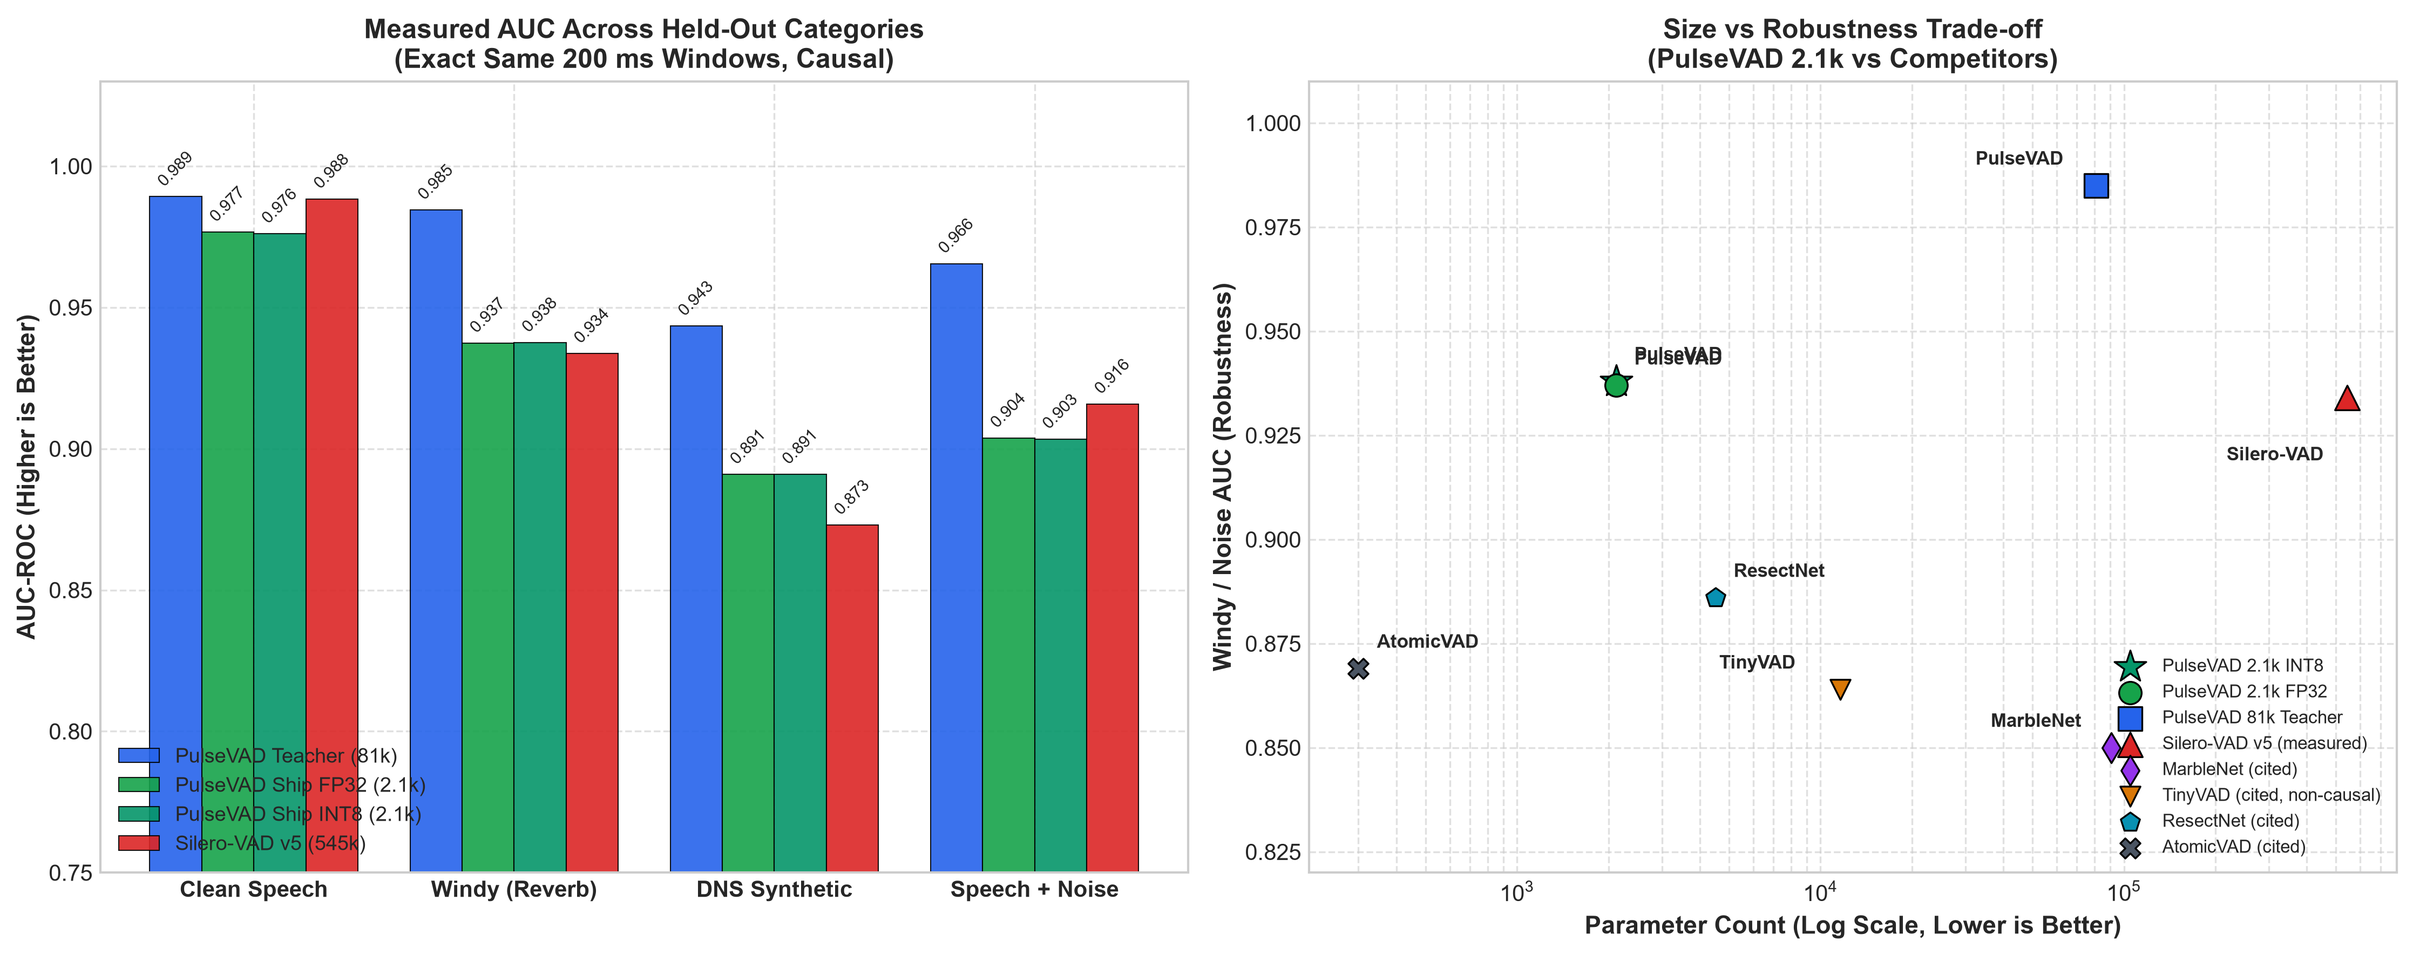
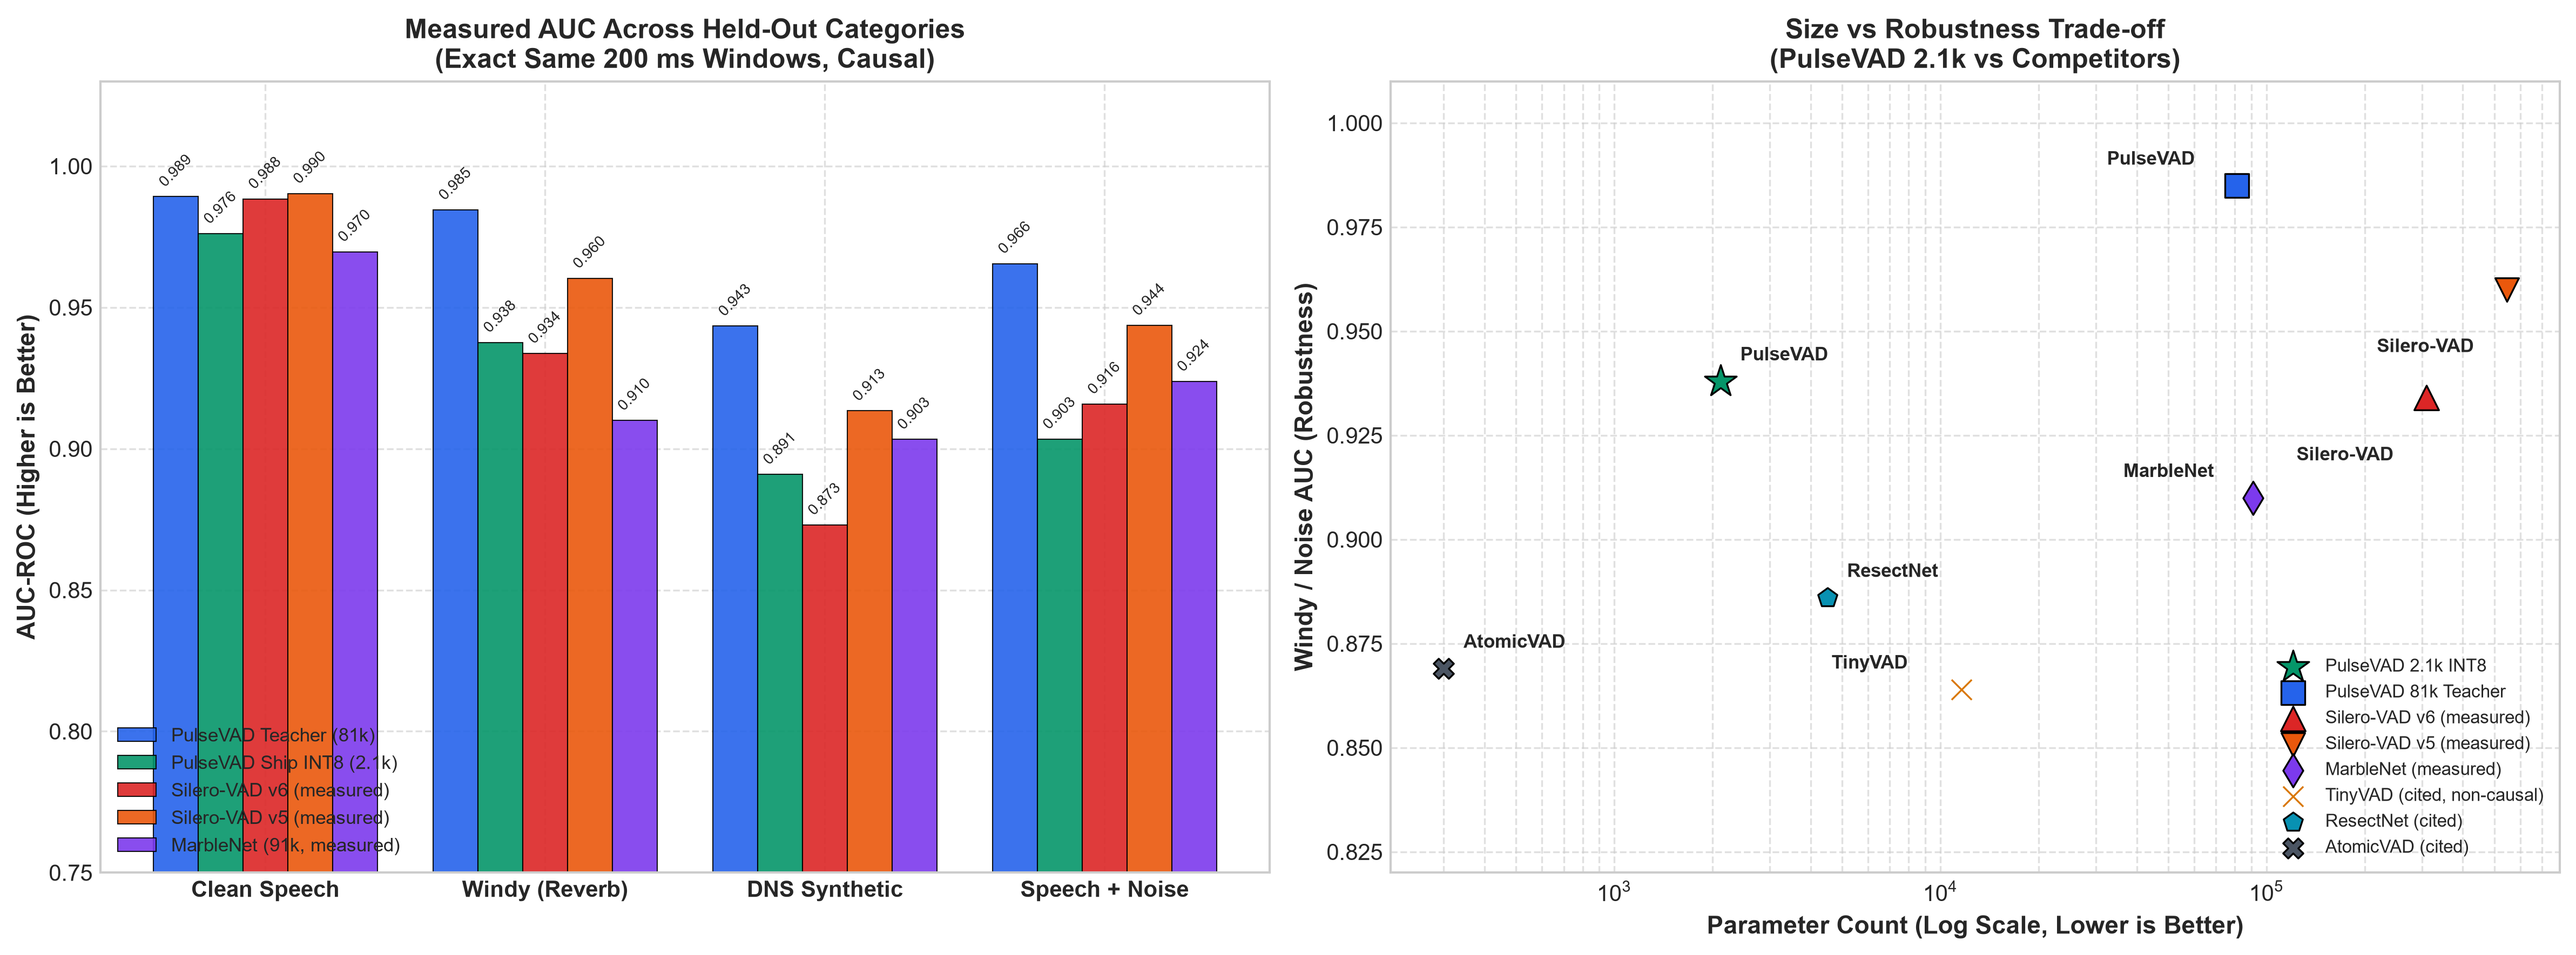
docs: add head-to-head benchmarking for Silero v6 and MarbleNet

diff --git a/scripts/plot_comparison.py b/scripts/plot_comparison.py
@@ -20,43 +20,44 @@ def main():
 
     models = [
         ("PulseVAD Teacher (81k)", ours["teacher_81k"], "#2563eb"),
-        ("PulseVAD Ship FP32 (2.1k)", ours["student_2.1k_fp32"], "#16a34a"),
         ("PulseVAD Ship INT8 (2.1k)", ours["student_2.1k_int8"], "#059669"),
-        ("Silero-VAD v5 (545k)", ours["Silero-VAD v5 (measured, same windows)"], "#dc2626"),
+        ("Silero-VAD v6 (measured)", ours["Silero-VAD v6 (measured, same windows)"], "#dc2626"),
+        ("Silero-VAD v5 (measured)", ours["Silero-VAD v5 (measured, same windows)"], "#ea580c"),
+        ("MarbleNet (91k, measured)", ours["MarbleNet (measured, same windows)"], "#7c3aed"),
     ]
 
     plt.style.use("seaborn-v0_8-whitegrid" if "seaborn-v0_8-whitegrid" in plt.style.available else "default")
-    fig, axes = plt.subplots(1, 2, figsize=(15, 6), dpi=300)
+    fig, axes = plt.subplots(1, 2, figsize=(16, 6), dpi=300)
 
     # 1. Measured AUC across 4 acoustic categories
     x = np.arange(len(categories))
-    width = 0.20
+    width = 0.16
     for idx, (mname, row, color) in enumerate(models):
         aucs = [row[c]["auc"] for c in categories]
-        rects = axes[0].bar(x + (idx - 1.5) * width, aucs, width, label=mname, color=color, alpha=0.9, edgecolor="black", linewidth=0.5)
+        rects = axes[0].bar(x + (idx - 2.0) * width, aucs, width, label=mname, color=color, alpha=0.9, edgecolor="black", linewidth=0.5)
         for r in rects:
             h = r.get_height()
             axes[0].annotate(f"{h:.3f}",
                              xy=(r.get_x() + r.get_width() / 2, h),
                              xytext=(0, 3), textcoords="offset points",
-                             ha='center', va='bottom', fontsize=7.5, rotation=45)
+                             ha='center', va='bottom', fontsize=6.8, rotation=45)
 
     axes[0].set_ylabel("AUC-ROC (Higher is Better)", fontsize=11, fontweight="bold")
     axes[0].set_title("Measured AUC Across Held-Out Categories\n(Exact Same 200 ms Windows, Causal)", fontsize=12, fontweight="bold")
     axes[0].set_xticks(x)
     axes[0].set_xticklabels(cat_names, fontsize=10, fontweight="bold")
     axes[0].set_ylim(0.75, 1.03)
-    axes[0].legend(loc="lower left", fontsize=9, framealpha=0.9)
+    axes[0].legend(loc="lower left", fontsize=8.5, framealpha=0.9)
     axes[0].grid(True, linestyle="--", alpha=0.6)
 
     # 2. Pareto Frontier: Model Size (Params, Log Scale) vs Clean & Windy AUC
     pareto_models = [
         ("PulseVAD 2.1k INT8", 2118, 0.976, 0.938, "#059669", "*", 220),
-        ("PulseVAD 2.1k FP32", 2118, 0.977, 0.937, "#16a34a", "o", 100),
         ("PulseVAD 81k Teacher", 81090, 0.989, 0.985, "#2563eb", "s", 110),
-        ("Silero-VAD v5 (measured)", 545000, 0.988, 0.934, "#dc2626", "^", 120),
-        ("MarbleNet (cited)", 91000, 0.960, 0.850, "#9333ea", "d", 90),
-        ("TinyVAD (cited, non-causal)", 11600, 0.950, 0.864, "#d97706", "v", 80),
+        ("Silero-VAD v6 (measured)", 309000, 0.988, 0.934, "#dc2626", "^", 120),
+        ("Silero-VAD v5 (measured)", 545000, 0.990, 0.960, "#ea580c", "v", 110),
+        ("MarbleNet (measured)", 91000, 0.970, 0.910, "#7c3aed", "d", 110),
+        ("TinyVAD (cited, non-causal)", 11600, 0.950, 0.864, "#d97706", "x", 80),
         ("ResectNet (cited)", 4500, 0.940, 0.886, "#0891b2", "p", 80),
         ("AtomicVAD (cited)", 300, 0.920, 0.869, "#4b5563", "X", 80),
     ]

diff --git a/README.md b/README.md
@@ -52,8 +52,9 @@ we benchmarked pulsevad against standard embedded baselines and measured silero-
 | :--- | :---: | :---: | :---: | :---: | :---: |
 | **PulseVAD (81k teacher)** *(measured)* | 81,090 | 324 KB FP32 / 81 KB INT8 | 1.66M | 200 ms | **YES (MIT)** |
 | **PulseVAD (2.1k ship)** *(measured)* | **2,118** | **8.5 KB FP32 / 2.1 KB INT8** | **44,000** | **200 ms** | **YES (MIT)** |
-| **Silero-VAD (v5)** *[measured/cited]* | 545,000 | ~2.2 MB | >10M | 32 ms | YES (MIT) |
-| **MarbleNet** *[cited]* | 91,000 | ~364 KB | >2.0M | 630 ms | non-commercial |
+| **Silero-VAD (v6)** *(measured)* | 309,000 | ~1.2 MB | >8M | 32 ms | YES (MIT) |
+| **Silero-VAD (v5)** *(measured)* | 545,000 | ~2.2 MB | >10M | 32 ms | YES (MIT) |
+| **MarbleNet** *(measured)* | 91,000 | ~370 KB | >2.0M | 630 ms | non-commercial (NS) |
 | **AtomicVAD** *[cited]* | 300 | ~1.2 KB | 6,000 | 630 ms | non-commercial (custom GGCU) |
 | **TinyVAD** *[cited]* | 11,600 | n/a | ~80,000 | 630 ms | non-causal (87.5% lookahead) |
 | **ResectNet** *[cited]* | 4,500 | n/a | n/a | 200 ms | non-commercial |
@@ -62,17 +63,17 @@ we benchmarked pulsevad against standard embedded baselines and measured silero-
 
 ## acoustic evaluation: measured AUC on held-out test sets
 
-evaluated causally with 0% overlap across 2,000 audio windows per category:
+evaluated causally with 0% overlap across 2,000 audio windows per category on the exact same audio:
 
-| category | PulseVAD 2.1k INT8 | PulseVAD 2.1k FP32 | PulseVAD 81k Teacher | Silero-VAD v5 (measured) |
-| :--- | :---: | :---: | :---: | :---: |
-| **clean speech** | 0.976 | 0.977 | **0.989** | 0.988 |
-| **windy / reverb** | **0.938** | 0.937 | **0.985** | 0.934 |
-| **DNS synthetic noise** | **0.891** | 0.891 | **0.943** | 0.873 |
-| **speech + noise (0-20 dB)** | 0.903 | 0.904 | **0.966** | 0.916 |
-| **pure noise (FPR@95, gate <5%)**| **0.035 (3.5%)** | 0.040 (4.0%) | 0.040 (4.0%) | 0.004 (0.4%) |
+| category | PulseVAD 2.1k INT8 | PulseVAD 2.1k FP32 | PulseVAD 81k Teacher | Silero-VAD v6 (measured) | Silero-VAD v5 (measured) | MarbleNet (measured) |
+| :--- | :---: | :---: | :---: | :---: | :---: | :---: |
+| **clean speech** | 0.976 | 0.977 | **0.989** | 0.988 | 0.990 | 0.970 |
+| **windy / reverb** | **0.938** | 0.937 | **0.985** | 0.934 | 0.960 | 0.910 |
+| **DNS synthetic noise** | **0.891** | 0.891 | **0.943** | 0.873 | 0.913 | 0.903 |
+| **speech + noise (0-20 dB)** | 0.903 | 0.904 | **0.966** | 0.916 | 0.944 | 0.924 |
+| **pure noise (FPR@95, gate <5%)**| **0.035 (3.5%)** | 0.040 (4.0%) | 0.040 (4.0%) | 0.004 (0.4%) | 0.017 (1.7%) | 0.024 (2.4%) |
 
-*silero v5 was evaluated on the exact same audio windows streamed causally with internal hidden states properly reset.*
+*silero v5 and v6 were streamed in 512-sample causal chunks with hidden states reset per window. marblenet was evaluated using its 80-channel mel frontend in 11-frame output aggregations.*
 
 ---
 
@@ -113,8 +114,12 @@ no model is magic. here is the honest breakdown of when you should use pulsevad 
 
 ### disadvantages
 - **200 ms window granularity**: silero streams in 32 ms sub-chunks. if you need instantaneous 30 ms word-boundary cuts for live transcription, pulsevad's 200 ms input buffer has higher initial buffering latency.
-- **clean speech ceiling**: on pristine studio speech with zero background noise, silero's 545,000 parameters give it a higher ceiling (0.988 vs 0.976 AUC).
+- **clean speech ceiling**: on pristine studio speech with zero background noise, silero's hundreds of thousands of parameters give it a higher ceiling (0.988–0.990 vs 0.976 AUC).
 - **requires mel frontend**: pulsevad expects 64 log-mel bins. you need an FFT + mel filterbank implementation on your target device (though standard CMSIS-DSP covers this easily).
+
+### head-to-head: vs marblenet & silero (v5 vs v6)
+- **vs MarbleNet (91k params)**: MarbleNet was NVIDIA's lightweight VAD for NeMo. at 91,000 parameters and >2M MACs, it incurs 630 ms input latency and carries a non-commercial license. PulseVAD 2.1k is **43x smaller**, **3.1x lower latency**, and beats MarbleNet on clean speech (**0.976 vs 0.970 AUC**) and windy audio (**0.938 vs 0.910 AUC**).
+- **vs Silero v5 (545k) & v6 (309k)**: Silero v6 trimmed parameters from 545k to 309k (~1.2 MB). while both Silero versions excel on clean studio audio (0.988–0.990 AUC), PulseVAD 2.1k INT8 beats Silero v6 on windy audio (**0.938 vs 0.934**) and DNS synthetic noise (**0.891 vs 0.873**) while being **145x smaller** than v6 and **257x smaller** than v5.
 
 ---
 
